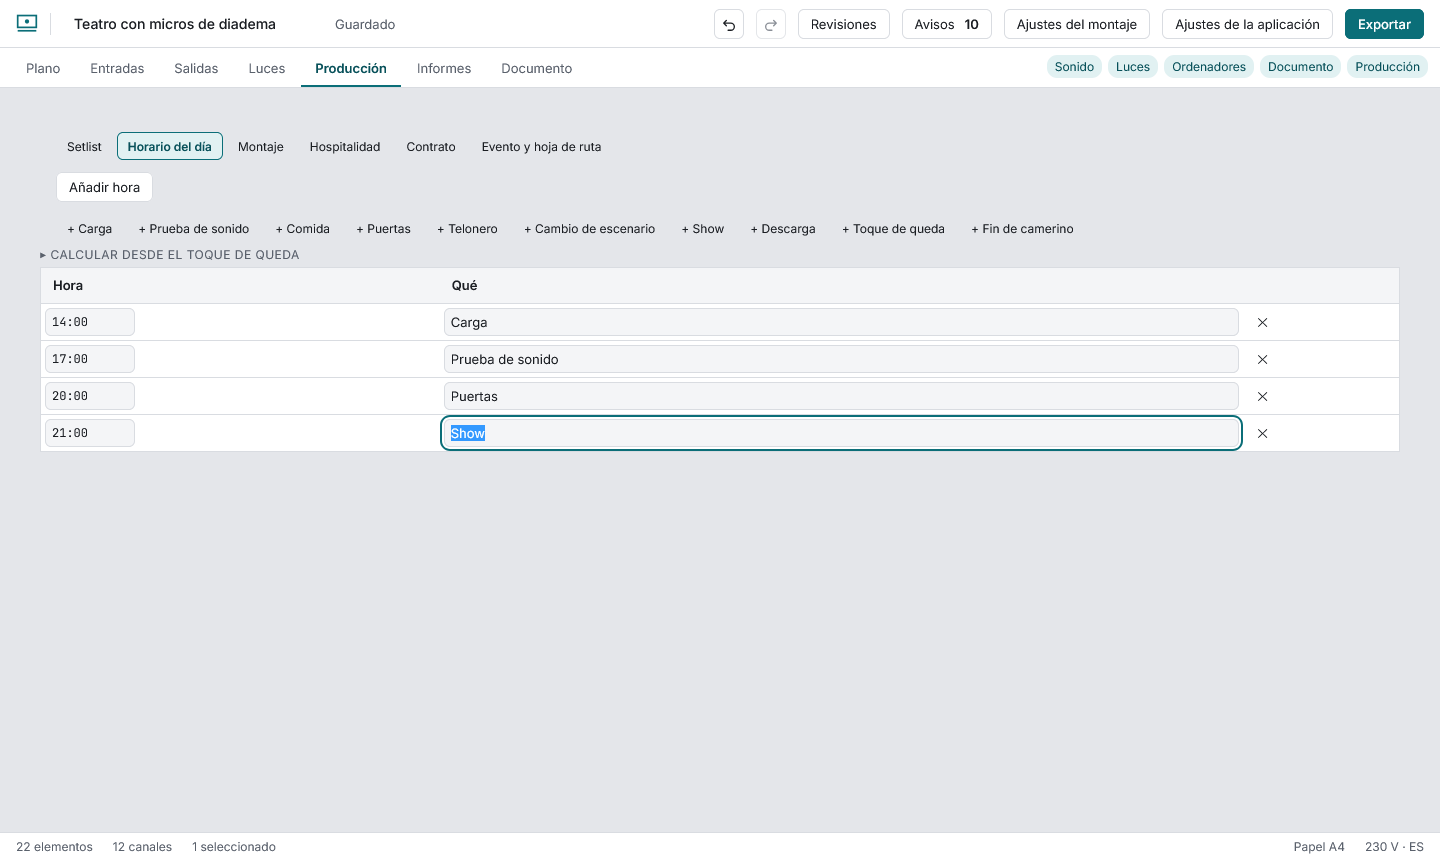
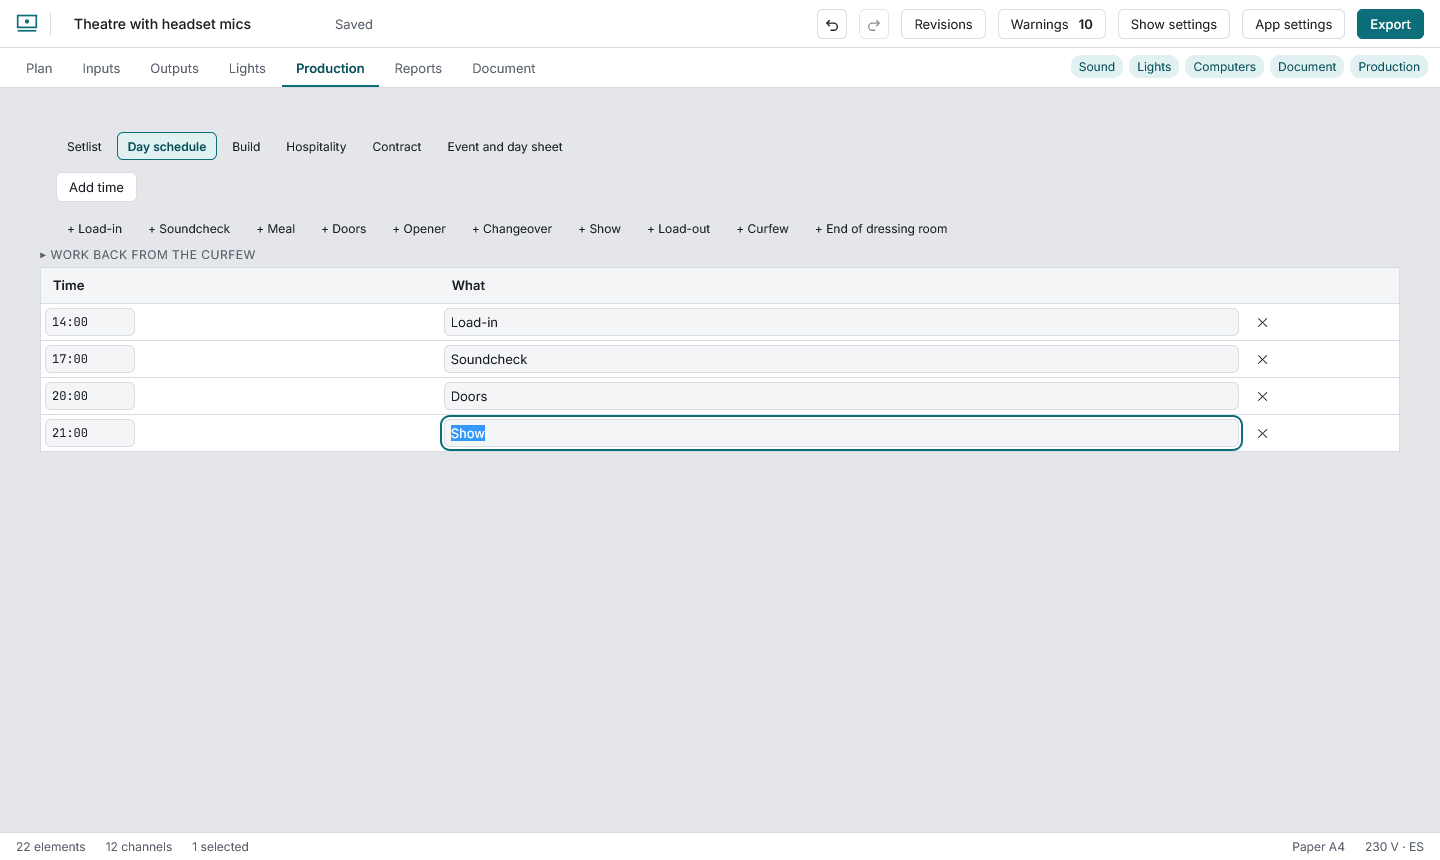
Guide screenshots in English and Spanish, each language in its own folder

diff --git a/state.md b/state.md
@@ -71,7 +71,7 @@ Decisiones deducidas de los principios y aceptadas el 2026-10-29:
 - [x] Escenario de forma libre hecho 2026-11-07 (`docs/design/stage-freeform-2026-11-07.md`): puntos arrastrables y con flechas sobre el plano, líneas de referencia y proscenio también en forma libre, altura de la boca dibujada en la sección lateral. Sin comprobar que el polígono no se cruce
 - [ ] **Iconos** (`docs/design/icons-integration-2026-11-07.md`): los 678 iconos de línea ya son elementos de la biblioteca (106 mapeados a los existentes, 572 nuevos generados por `scripts/symbols/build-items.py` en `src/library/items-icons.ts`; alturas estimadas, nombres es/en por revisar). Se dibujan verticales sobre una huella fina que gira; las luces giran con el punto de mira. Categorías nuevas (mic, safety, site, production, machinery, rigging, network) y filtro por categoría en la biblioteca. La biblioteca muestra 60 elementos y un botón Ver todos (780 botones con iconos hacían que axe agotara el tiempo). Catálogo completo en `docs/design/icons-catalog.md` (`scripts/symbols/build-catalog.py`). E2e Firefox pasada tras el cambio (tres tests ajustados a nombres exactos). E2e Chrome pasada (los tests de móvil en horizontal iban al proyecto de escritorio: corregido `playwright.chrome.config.ts`), PDF sin red con iconos pasa, rendimiento igual que antes (Firefox, 1.000 elementos: zoom 48 fps, arrastre 21). Falta: DXF con muchos iconos. Marcas registradas revisadas por el usuario el 2026-11-07: ninguno muestra una marca, solo formas basadas en instrumentos reales; nada que quitar. Nombres en español aprobados por el usuario el 2026-11-07. Solo quedan los iconos que falten, que se añaden cuando aparezcan (ver `docs/design/icons-catalog.md`)
 - [x] Decidido 2026-11-07: `docs/design/`, `docs/research/` e `investigacion.md` se quedan en español; toda documentación nueva va en inglés
-- [ ] Capturas de la guía (`docs/guide/img`) están en la interfaz en español; las del README ya están hechas y commiteadas (2026-11-07, `node scripts/readme-shots.mjs` las regenera)
+- [x] Capturas de la guía en inglés (`docs/guide/img`) y en español (`docs/guide/es/img`), 2026-11-07: `node scripts/screenshots.mjs en|es` las regenera tras `pnpm build`. Las del README: `node scripts/readme-shots.mjs`
 - [x] Pasada completa 2026-11-07: 287 unitarias, 125 e2e en Firefox y 87 en Chrome (`pnpm e2e:chrome`) pasan; en Chrome una comprobación de la hoja mágica pedía «visible» a una línea sin alto y ahora pide «presente»
 - [x] Móvil real 2026-11-07 (Xiaomi 24094RAD4G, Chrome, app servida por `adb reverse` y controlada por CDP): plano, Entradas y Documento sin desbordar, PDF compilado en 3,2 s, toque real selecciona y abre la barra de acciones, zoom con dos dedos, recarga sin red desde el service worker. Sin probar: Firefox y Safari del móvil, instalar como PWA, giro a horizontal en el aparato Segunda tanda (misma fecha): instalable en Chrome sin errores (manifest standalone, icono maskable; no instalada a propósito); Firefox 158 del móvil muestra inicio, plano, Entradas y Documento con PDF
 - [x] Hallazgos del móvil real corregidos 2026-11-07 y verificados en el Xiaomi: el plano se reencuadra al girar mientras la cámara sea la del encuadre automático; el encuadre descuenta la barra de zoom y los botones; Documento en vertical es una columna que se desplaza entera (visor de alto casi completo); el título lleva puntos suspensivos. Límite conocido: con 275 px de alto (horizontal en el Xiaomi) el plano cabe sobre los controles pero queda pequeño

diff --git a/docs/guide/es/plano.md b/docs/guide/es/plano.md
@@ -2,13 +2,13 @@
 
 ## Poner elementos
 
-![Buscar en la biblioteca](../img/biblioteca.png)
+![Buscar en la biblioteca](img/biblioteca.png)
 
 La biblioteca tiene unos 780 elementos dibujados como iconos de línea. Búscalos (sin importar los acentos), acota con el menú **Categoría** sobre la lista y pulsa el elemento: aparece en el primer hueco libre del escenario, seleccionado. Arrástralo para colocarlo; se ajusta a la cuadrícula (**Alt** al arrastrar la desactiva). En el plano el icono se mantiene vertical y el contorno fino que hay debajo, la huella real con su línea frontal, gira con el elemento (las luces giran con su punto de mira). Con mucho alejamiento solo se ve la huella gris. Los instrumentos de zurdo se dibujan reflejando el elemento. En el plano el icono se mantiene vertical y el contorno fino que hay debajo, la huella real con su línea frontal, gira con el elemento (las luces giran con su punto de mira). Con mucho alejamiento solo se ve la huella gris. Los instrumentos de zurdo se dibujan reflejando el elemento. En el inspector puedes escribir la etiqueta, quién lo aporta (banda, sala, alquiler), notas, posición y giro.
 
 ## Seleccionar y editar varios a la vez
 
-![Todo seleccionado, con la barra de acciones](../img/seleccion.png)
+![Todo seleccionado, con la barra de acciones](img/seleccion.png)
 
 - Pulsa un elemento; **Mayús** + pulsar añade o quita. Arrastra sobre el fondo para un **recuadro de selección**; **Ctrl+A** selecciona todo.
 - La barra de arriba gira, voltea, duplica, agrupa, borra y alinea o distribuye lo seleccionado (alinear pide dos elementos, distribuir tres).
@@ -17,13 +17,13 @@ La biblioteca tiene unos 780 elementos dibujados como iconos de línea. Búscalo
 
 ## Medir y escribir en el plano
 
-![Medir entre dos puntos](../img/medir.png)
+![Medir entre dos puntos](img/medir.png)
 
 La herramienta **Medir** da la distancia entre dos puntos (en metros, o en pies si el montaje es imperial). Tras medir, **Fijar como cota** la deja en el plano como una cota en la capa Anotaciones: lee su longitud, se mueve como cualquier elemento, sale en el PDF y se deshace. La herramienta **Texto** coloca una nota y deja la etiqueta lista para escribir.
 
 ## Un plano de la sala de fondo
 
-![Fondo importado y su configuración](../img/fondo.png)
+![Fondo importado y su configuración](img/fondo.png)
 
 Con la herramienta **Fondo PDF o DXF** importas el plano de la sala. El PDF se convierte en imagen en tu navegador y el DXF se dibuja en líneas; hasta 25 MB. Luego:
 

diff --git a/docs/guide/es/luces.md b/docs/guide/es/luces.md
@@ -4,25 +4,25 @@ Activa el módulo **Luces** en Ajustes del montaje (el paquete de teatro ya lo t
 
 ## Instrumentos
 
-![Tabla de instrumentos](../img/luces-instrumentos.png)
+![Tabla de instrumentos](img/luces-instrumentos.png)
 
 Cada luminaria es una fila: unidad, modelo, montaje, canal, dimmer, circuito, universo, dirección, color y potencia. Al elegir un **modelo** del catálogo se copian su peso y su potencia (los modelos genéricos llevan «≈»: son estimaciones, no datos de ficha). La lista de modelos del inspector ofrece además unos 650 equipos de la Open Fixture Library agrupados por fabricante (sobre todo LED y móviles); su peso y su potencia los aportan voluntarios, y el panel lo dice y enlaza a la ficha del equipo. **Numerar instrumentos** da unidades de 1 a n por montaje y de izquierda a derecha. Debajo ves el **recuento por montaje**: cuántos hay, su peso y su potencia, y un aviso si pasan de la carga máxima.
 
 ## Montajes
 
-![Montajes con altura](../img/luces-montajes.png)
+![Montajes con altura](img/luces-montajes.png)
 
 Varas, tubos, truss, calles laterales y suelo. Cada uno tiene nombre, extremos, **altura** y **carga máxima**. Se dibujan en el plano como una línea con su nombre. Quitar un montaje deja sus instrumentos en el plano, sin montaje.
 
 ## Eléctrica
 
-![Circuitos, dimmers y fases](../img/luces-electrica.png)
+![Circuitos, dimmers y fases](img/luces-electrica.png)
 
 Potencia y amperios por circuito a la tensión de la región, el máximo de cada dimmer y el total por fase (L1, L2, L3). Indica el magnetotérmico de cada fase para que la aplicación avise si se supera.
 
 ## Sección
 
-![Sección lateral](../img/luces-seccion.png)
+![Sección lateral](img/luces-seccion.png)
 
 Una vista lateral del escenario: de fondo a público en horizontal y la altura en vertical. Cada montaje está a su altura con sus instrumentos. Un montaje sin altura se dibuja en el suelo y se dice. La sección dibuja la tarima del escenario (su altura se fija en **Ajustes del montaje → Escenario**) y cada tarima o plataforma del plano con su propia altura; la altura de un montaje se mide desde la tarima. Selecciona una tarima o plataforma para poner su **altura sobre la tarima** en el inspector.
 

diff --git a/docs/guide/es/produccion.md b/docs/guide/es/produccion.md
@@ -2,13 +2,13 @@
 
 Activa el módulo **Producción** en Ajustes del montaje.
 
-![Activar el módulo en los ajustes del montaje](../img/ajustes-montaje.png)
+![Activar el módulo en los ajustes del montaje](img/ajustes-montaje.png)
 
 Es para **un solo evento**. Si das varios conciertos, duplica el montaje desde la pantalla de inicio y cambia la fecha: cada uno tiene su propio rider.
 
 ## Horario del día y del montaje
 
-![Horario con los hitos habituales](../img/produccion-horario.png)
+![Horario con los hitos habituales](img/produccion-horario.png)
 
 **Calcular desde el toque de queda** (desplegable sobre la lista) trabaja el día hacia atrás: la descarga acaba en el toque de queda, el show acaba cuando empieza la descarga, las puertas abren antes del show, la prueba de sonido acaba cuando abren las puertas y la carga acaba cuando empieza la prueba. Pones las duraciones (por defecto: show 90 min o lo que sume el setlist, descarga 60, cambio de escenario 0, puertas 30 antes, prueba 60, carga 120) y un **margen extra** (50 % por defecto) que se suma a la carga y a la descarga. Ves las horas antes de **Aplicarlas**: una fila que ya se llame igual (Carga, Puertas…) cambia de hora y las demás se añaden, todo en un paso de deshacer. Si la carga caería antes de medianoche, no se calcula.
 
@@ -20,7 +20,7 @@ Título, comentario y duración (`4:30`, `4,5` minutos o `270 s`) con el total d
 
 ## Hospitalidad y contrato
 
-![Hospitalidad](../img/produccion-hospitalidad.png)
+![Hospitalidad](img/produccion-hospitalidad.png)
 
 Formularios con lo habitual de un rider: camerinos y sus condiciones, comidas y dietas, comida tras el show, bus stock, suministros, transporte, alojamiento y compensación en efectivo; y en el contrato, caché, anticipo, pago, cancelación, seguros, duración del show y personal. scaena solo lo guarda y lo imprime: no da consejo legal.
 

diff --git a/docs/guide/es/empezar.md b/docs/guide/es/empezar.md
@@ -1,12 +1,12 @@
 # Empezar
 
-![Pantalla de inicio](../img/inicio.png)
+![Pantalla de inicio](img/inicio.png)
 
 ## Un montaje nuevo
 
 En la pantalla de inicio elige el que más se parezca a lo tuyo: banda de rock, jazz, cantautor, DJ, conferencia, teatro con micros de diadema o audiovisual. Cada uno viene con el plano colocado, la lista de canales con micros sugeridos y, en el caso del teatro, un plano de luces básico. Todo se puede cambiar. Si prefieres empezar de cero, **Montaje vacío**.
 
-![El editor con una banda de rock](../img/editor.png)
+![El editor con una banda de rock](img/editor.png)
 
 - A la izquierda, la **biblioteca** de elementos (instrumentos, amplis, monitores, mesas, ordenadores, luces…). Pulsa uno para ponerlo en el plano.
 - En el centro, el **plano**. Arriba, las **vistas**: Plano, Entradas, Salidas, Luces, Producción, Informes y Documento. Solo salen las que tus módulos necesitan.

diff --git a/docs/guide/es/pdf.md b/docs/guide/es/pdf.md
@@ -1,6 +1,6 @@
 # El PDF del rider
 
-![La vista Documento](../img/documento.png)
+![La vista Documento](img/documento.png)
 
 En la vista **Documento** ves el PDF tal como saldrá y se actualiza solo un momento después de cada cambio. La **primera vez** descarga el compilador de PDF (unos 11 MB); queda guardado para las siguientes y funciona sin conexión.
 
@@ -24,6 +24,6 @@ El panel avisa de las palabras demasiado largas para su columna (por ejemplo, un
 
 ## Informes
 
-![Informes de luces y sonido](../img/informes.png)
+![Informes de luces y sonido](img/informes.png)
 
 La vista **Informes** muestra cada lista como tabla: hookup de canales, instrumentos, circuitos, dimmers, recuento de color, focos, etiquetas, entradas y salidas. Cada una se descarga en CSV o se copia como texto para pegarla donde quieras.

diff --git a/docs/guide/es/sonido.md b/docs/guide/es/sonido.md
@@ -2,7 +2,7 @@
 
 ## La lista de entradas
 
-![La lista de entradas](../img/entradas.png)
+![La lista de entradas](img/entradas.png)
 
 Cada fila es un canal. Se edita en la propia tabla; cada cambio se confirma al salir de la celda y se puede deshacer.
 
@@ -13,7 +13,7 @@ Cada fila es un canal. Se edita en la propia tabla; cada cambio se confirma al s
 
 ## Las salidas y el flujo de señal
 
-![Salidas y flujo de señal](../img/salidas.png)
+![Salidas y flujo de señal](img/salidas.png)
 
 Cuñas, in-ear, principal y envíos, con su aux y el elemento que las lleva. Debajo, el **flujo de señal**: las fuentes agrupadas por elemento, la mesa (escribe su modelo) y las salidas. Cada línea lleva su nombre escrito y un trazo distinto: el color nunca va solo.
 

diff --git a/docs/guide/es/movil.md b/docs/guide/es/movil.md
@@ -1,6 +1,6 @@
 # Móvil y sin conexión
 
-![El plano en el móvil](../img/movil-plano.png)
+![El plano en el móvil](img/movil-plano.png)
 
 En una pantalla estrecha el editor se reorganiza:
 
@@ -9,7 +9,7 @@ En una pantalla estrecha el editor se reorganiza:
 - La **biblioteca** y el **inspector** son hojas que suben desde abajo con los botones flotantes. «Cerrar el panel» las baja.
 - Lo que no cabe en la barra superior (revisiones, avisos, ajustes y exportar) está en el menú «⋯».
 
-![La biblioteca como hoja](../img/movil-biblioteca.png)
+![La biblioteca como hoja](img/movil-biblioteca.png)
 
 ## En horizontal
 

diff --git a/docs/guide/es/entregar.md b/docs/guide/es/entregar.md
@@ -2,7 +2,7 @@
 
 ## Exportar
 
-![El menú Exportar](../img/exportar.png)
+![El menú Exportar](img/exportar.png)
 
 | Opción | Qué da |
 |---|---|
@@ -21,7 +21,7 @@ Los CSV se abren bien en Excel (llevan marca de codificación) y cualquier celda
 
 ## Revisiones
 
-![Revisiones](../img/revisiones.png)
+![Revisiones](img/revisiones.png)
 
 Una **revisión** es una copia del montaje en un momento dado, guardada en este navegador. **Guardar revisión** sube el número, anota la fecha y tu nota, y calcula qué cambió desde la anterior (elementos añadidos, quitados o movidos, canales, salidas, montajes…).
 

diff --git a/docs/guide/es/avisos.md b/docs/guide/es/avisos.md
@@ -1,6 +1,6 @@
 # Los avisos
 
-![El panel de avisos](../img/avisos.png)
+![El panel de avisos](img/avisos.png)
 
 El botón **Avisos** de la barra superior muestra cuántos hay. Cada uno dice con palabras qué pasa y tiene un botón **Ir al aviso** que abre el sitio donde se arregla. **Los avisos nunca impiden exportar**: son ayuda, no un freno.
 

diff --git a/docs/guide/es/ordenadores.md b/docs/guide/es/ordenadores.md
@@ -1,6 +1,6 @@
 # Ordenadores, vídeo y red
 
-![Un ordenador seleccionado y su panel](../img/ordenador.png)
+![Un ordenador seleccionado y su panel](img/ordenador.png)
 
 Un **ordenador portátil** de la biblioteca es un elemento con contenido. En el inspector indicas:
 
